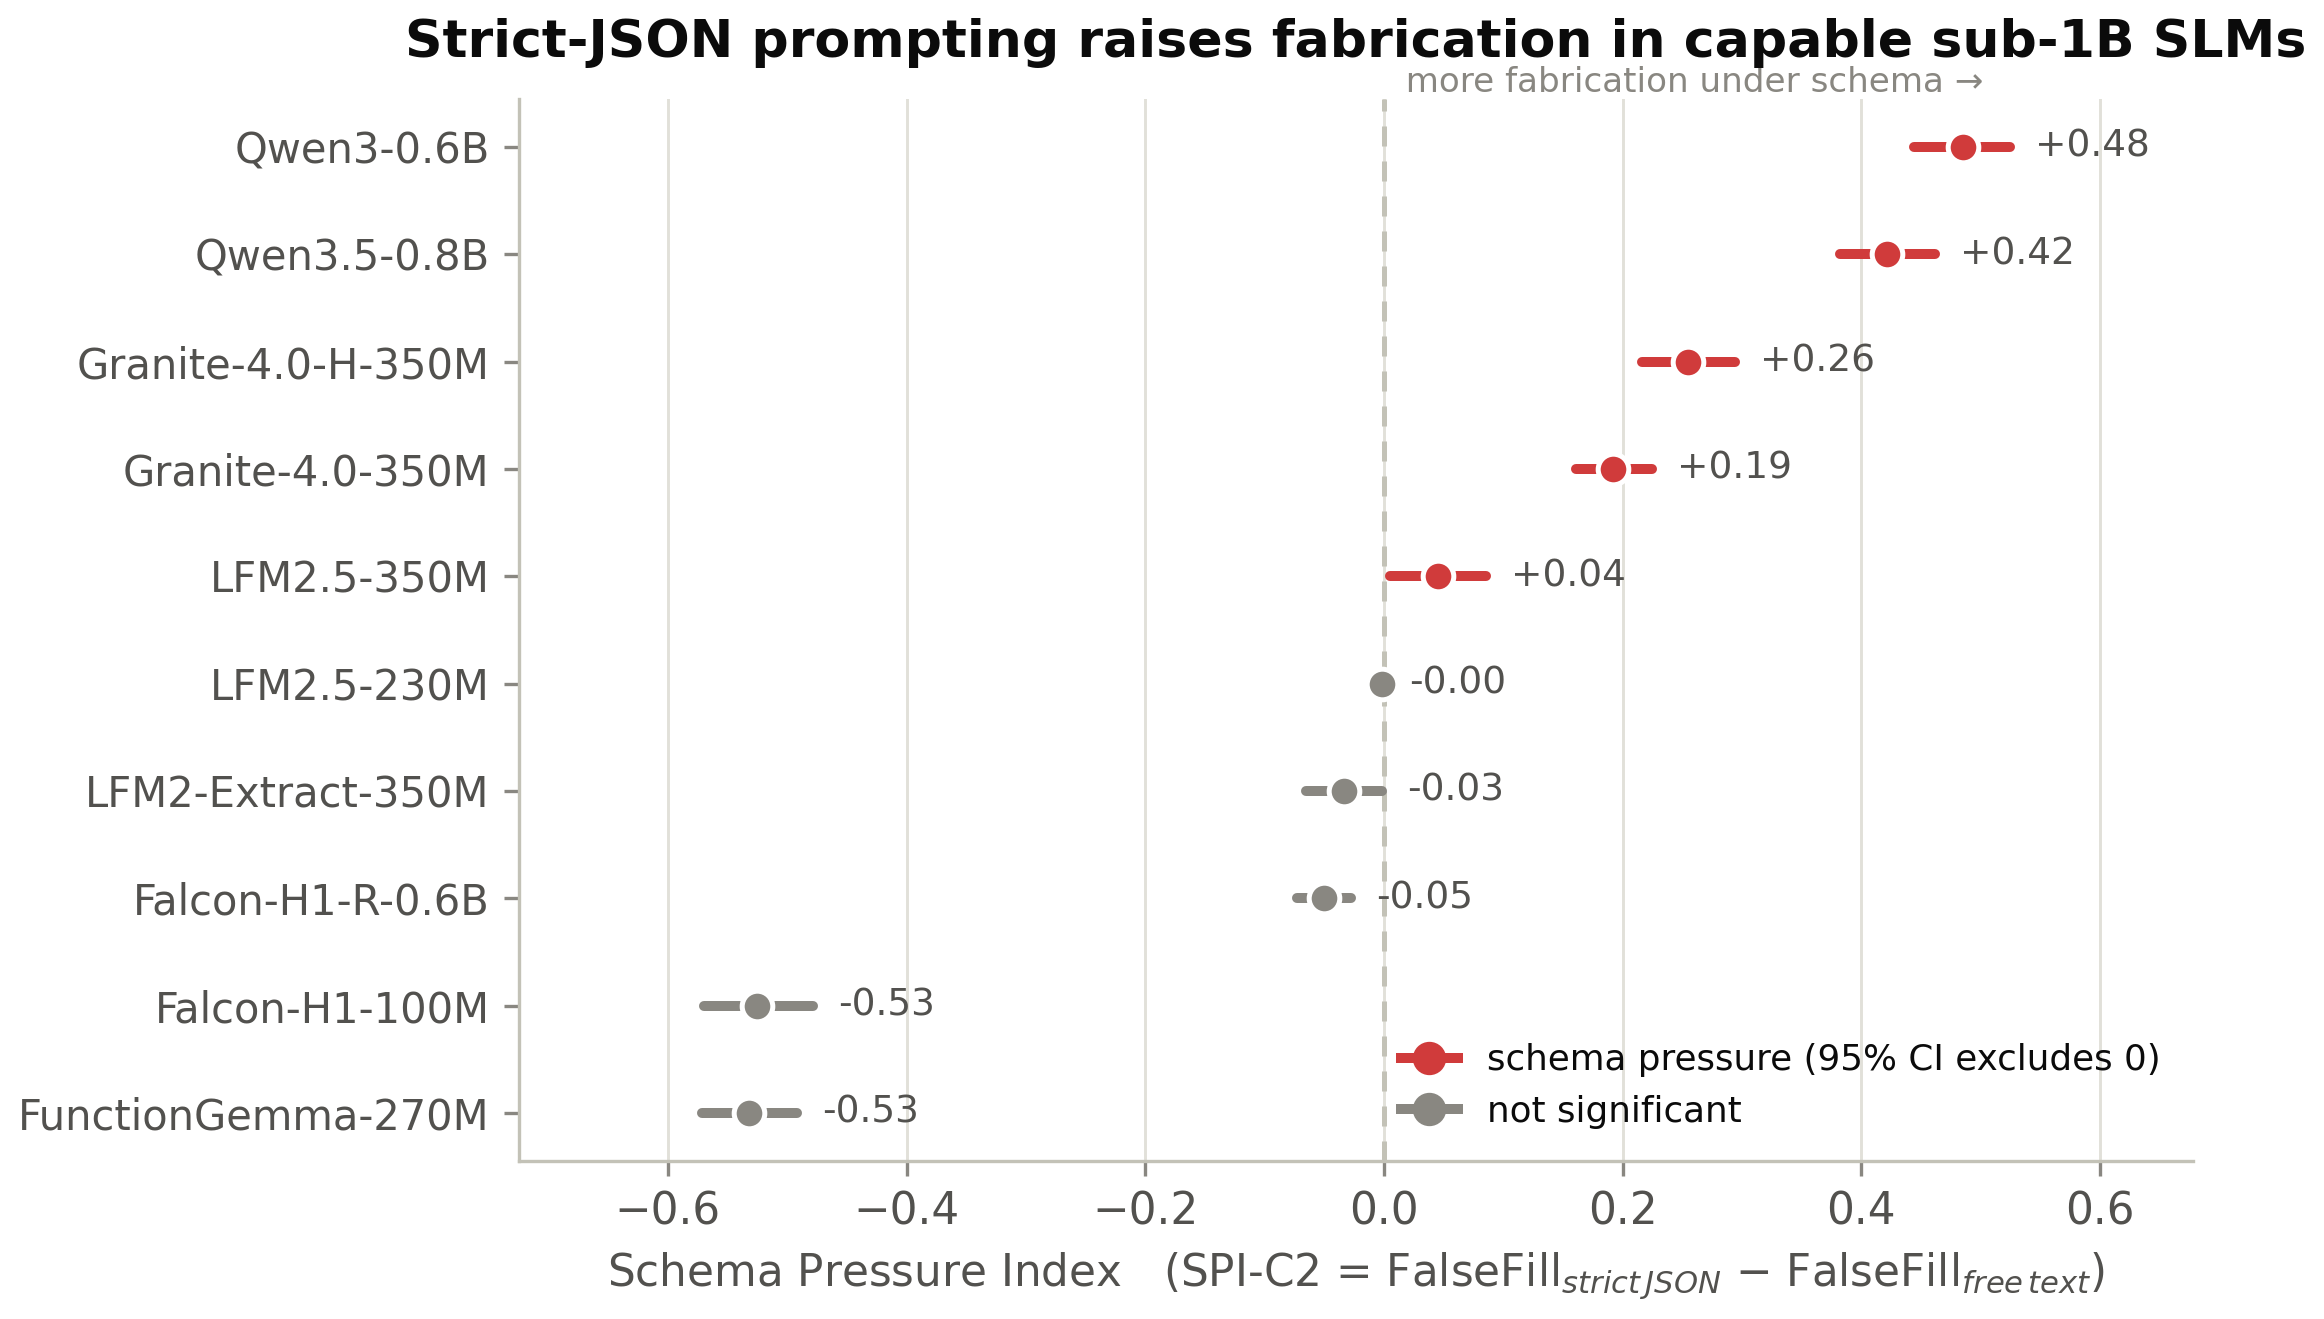
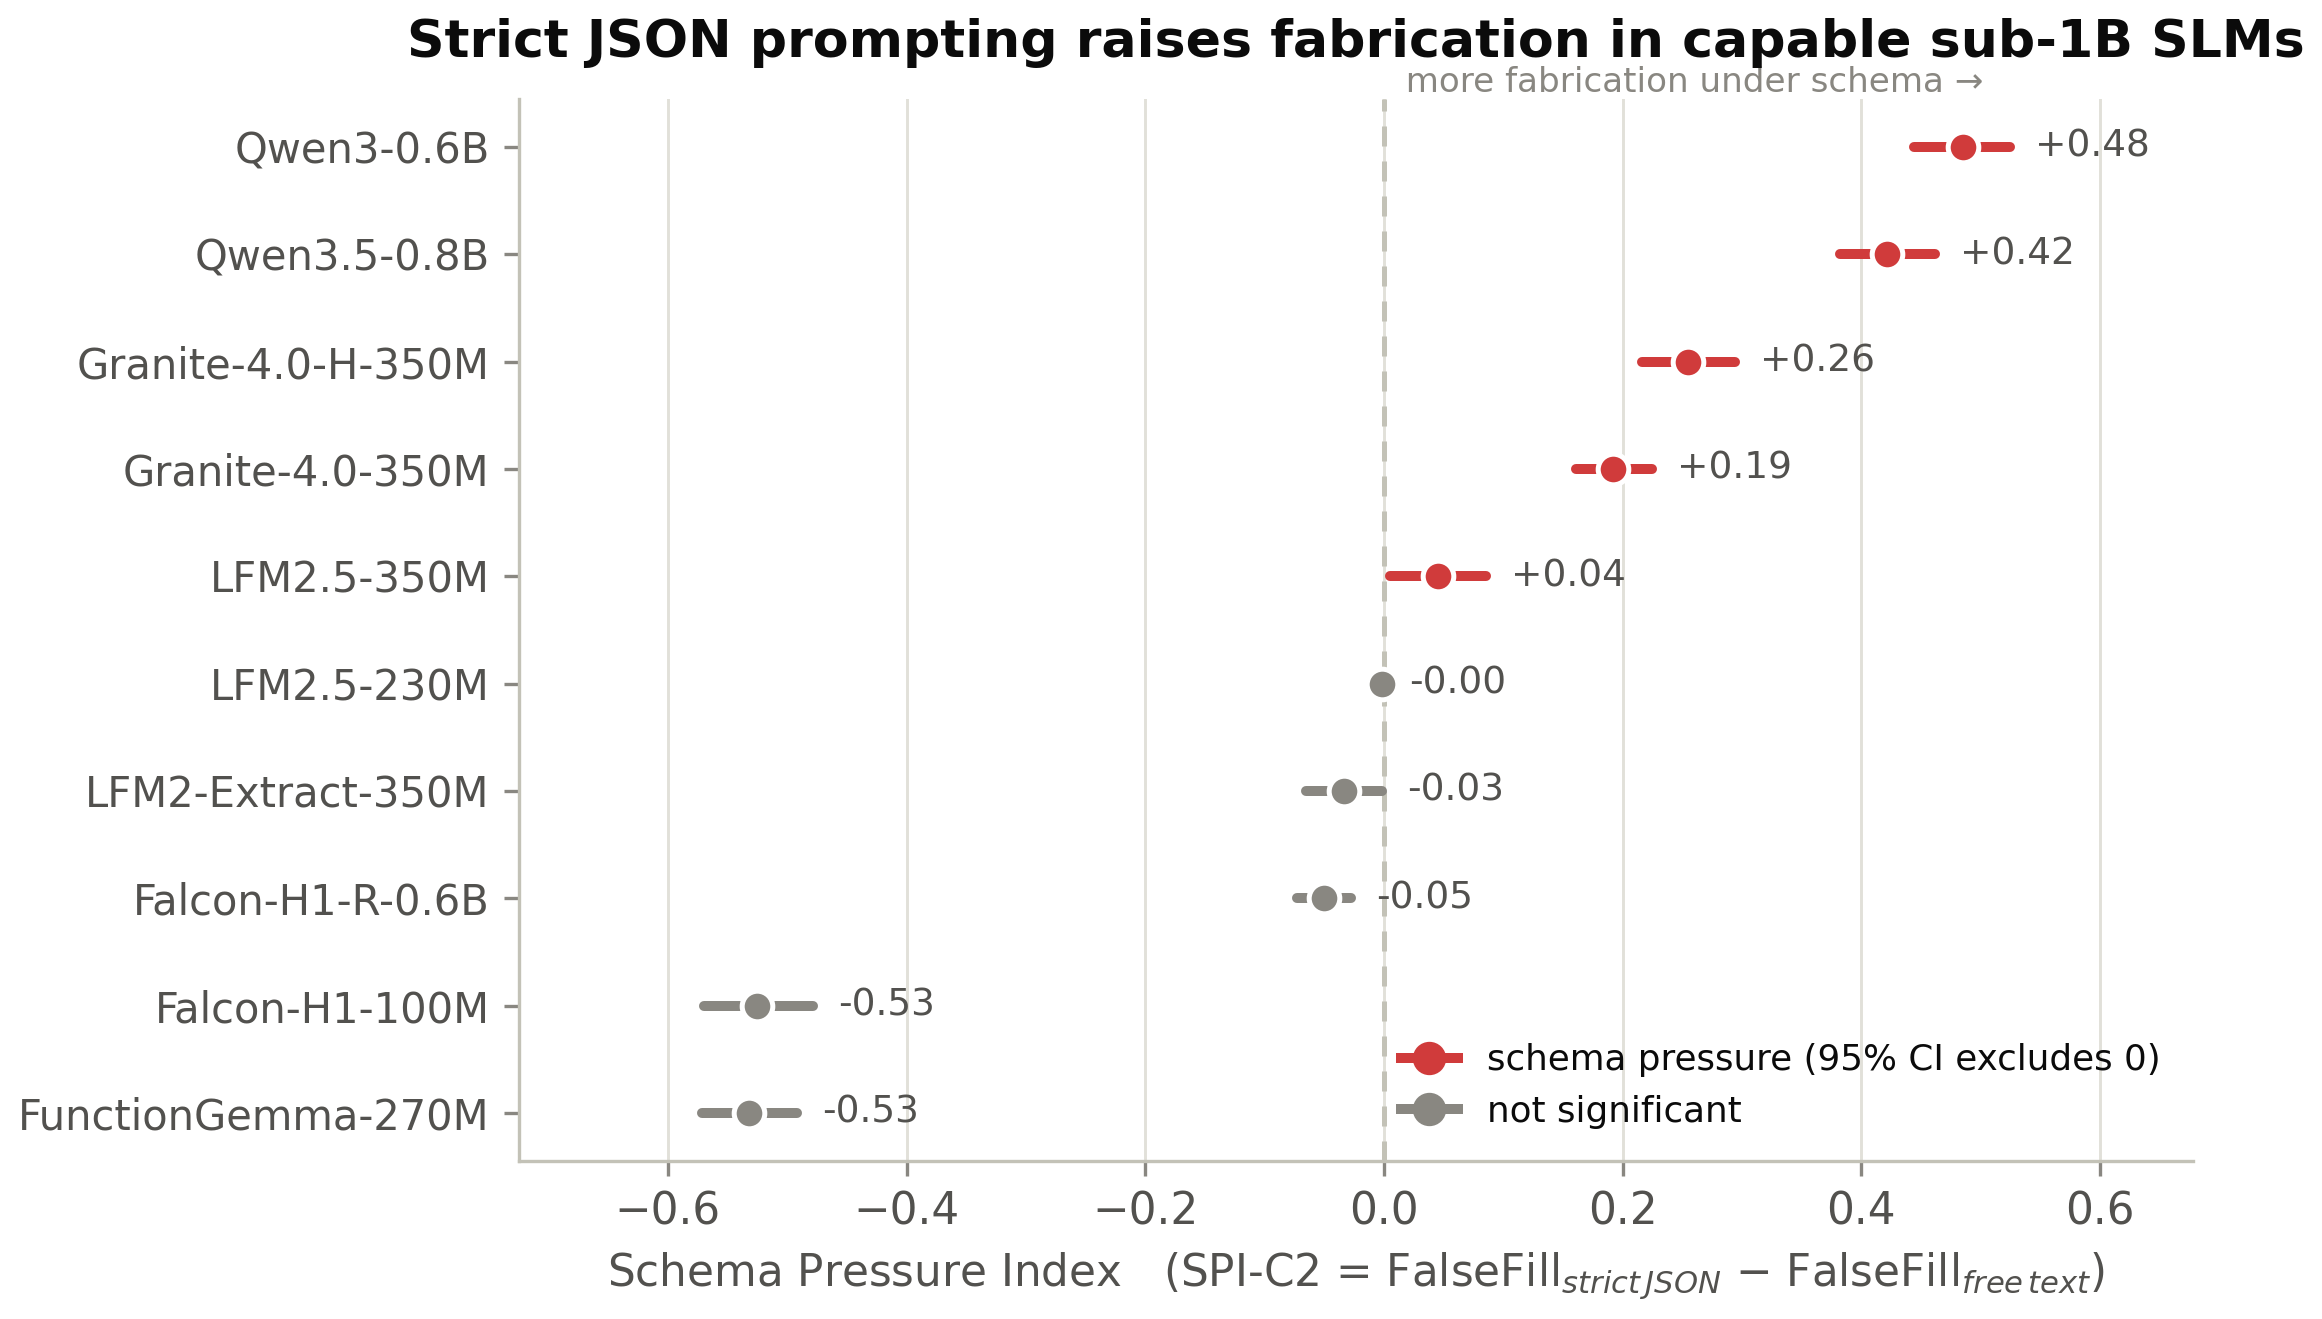
Copyedit: open ad-hoc hyphenated compounds in paper and figures
Open stylistic compound modifiers (false fill, structured output, field level,
free text, strict/loose JSON, constrained decoding, etc.) while keeping required
hyphens: model names, sub-1B, prefixes, and genuine compounds (few-shot, text-only,
gold-null). Figures regenerated to match; paper recompiles clean (13 pp).

diff --git a/paper/main.tex b/paper/main.tex
@@ -39,33 +39,33 @@
 \maketitle
 
 \begin{abstract}
-Structured-output systems often treat parseable JSON as a proxy for reliability. We test a narrower failure mode in sub-billion-parameter small language models: a required schema slot may be filled even when the source text does not support the value, although the schema permits \cnull for every field. We introduce \sass, a 1,000-item synthetic benchmark for field-level abstention over five evidence regimes: supported, missing, ambiguous, contradictory, and distractor. Ten recent sub-1B checkpoints are evaluated under free-text, loose-JSON, strict-JSON, explicit-null, few-shot-null, and constrained-decoding conditions, together with quantized variants and a sampling replication. Strict JSON raises false-fill rates for five of the ten models, with Qwen3-0.6B increasing from 0.217 to 0.702 and Qwen3.5-0.8B from 0.287 to 0.708; the paired bootstrap intervals exclude zero, and the effect persists under stochastic decoding. The increase is not universal, because some models already false-fill in free text and others avoid false fills only by failing to emit valid JSON. Constrained decoding yields 1.00 parse and schema validity for every compatible model, yet false-fill rates remain as high as 0.730. Explicit null rules reduce the error more reliably than few-shot examples. Evaluation of structured-output models should therefore score both the object and the evidence behind each field.
+Structured output systems often treat parseable JSON as a proxy for reliability. We test a narrower failure mode in sub-billion parameter small language models: a required schema slot may be filled even when the source text does not support the value, although the schema permits \cnull for every field. We introduce \sass, a 1,000-item synthetic benchmark for field level abstention over five evidence regimes: supported, missing, ambiguous, contradictory, and distractor. Ten recent sub-1B checkpoints are evaluated under free text, loose JSON, strict JSON, explicit null, few-shot null, and constrained decoding conditions, together with quantized variants and a sampling replication. Strict JSON raises false fill rates for five of the ten models, with Qwen3-0.6B increasing from 0.217 to 0.702 and Qwen3.5-0.8B from 0.287 to 0.708; the paired bootstrap intervals exclude zero, and the effect persists under stochastic decoding. The increase is not universal, because some models already false fill in free text and others avoid false fills only by failing to emit valid JSON. Constrained decoding yields 1.00 parse and schema validity for every compatible model, yet false fill rates remain as high as 0.730. Explicit null rules reduce the error more reliably than few-shot examples. Evaluation of structured output models should therefore score both the object and the evidence behind each field.
 \keywords{sub-1B language models, structured output, JSON, hallucination, abstention, constrained decoding}
 \end{abstract}
 
 \section{Introduction}
 
-Small language models below one billion parameters are moving from benchmark curiosities into local components for extraction, routing, tool use, and on-device assistants. MobileLLM framed this size range as a practical target for device-side inference rather than only as a scaled-down version of cloud models~\cite{mobilellm2024}. Recent model releases make this shift concrete: LFM2.5 offers 230M and 350M instruction models for edge deployment and agentic tasks~\cite{liquidlfm25}, FunctionGemma-270M targets function calling~\cite{functiongemma}, and Qwen3 includes a 0.6B model in a larger multilingual family~\cite{qwen3tr}. These systems often sit inside software pipelines where the output is not read by a person first. A JSON object may be passed to a database, a controller, or a tool runner.
+Small language models below one billion parameters are moving from benchmark curiosities into local components for extraction, routing, tool use, and on-device assistants. MobileLLM framed this size range as a practical target for device side inference rather than only as a scaled-down version of cloud models~\cite{mobilellm2024}. Recent model releases make this shift concrete: LFM2.5 offers 230M and 350M instruction models for edge deployment and agentic tasks~\cite{liquidlfm25}, FunctionGemma-270M targets function calling~\cite{functiongemma}, and Qwen3 includes a 0.6B model in a larger multilingual family~\cite{qwen3tr}. These systems often sit inside software pipelines where the output is not read by a person first. A JSON object may be passed to a database, a controller, or a tool runner.
 
-The usual first test for such a pipeline is structural: does the output parse, and does it match the expected schema? That test is necessary, but it is not enough. A JSON object can contain every required key and still insert a value that is not stated in the source. This paper studies that field-level error. We call it \emph{schema pressure}: the tendency of a model to fill a required structured slot even though the evidence calls for abstention. The schema we use permits \cnull for every field, so a false fill is not required by the type system. It is a model behavior induced by the prompt, the schema, the decoding path, or their combination.
+The usual first test for such a pipeline is structural: does the output parse, and does it match the expected schema? That test is necessary, but it is not enough. A JSON object can contain every required key and still insert a value that is not stated in the source. This paper studies that field level error. We call it \emph{schema pressure}: the tendency of a model to fill a required structured slot even though the evidence calls for abstention. The schema we use permits \cnull for every field, so a false fill is not required by the type system. It is a model behavior induced by the prompt, the schema, the decoding path, or their combination.
 
-The question matters for sub-1B models because their expected deployment setting amplifies silent errors. A large assistant that gives a doubtful answer in prose may invite user correction. A small local extractor that emits valid JSON can fail without visible warning. Prior work has measured constrained decoding, JSON conformance, and structured-output quality~\cite{jsonschemabench,structuredoutputbench,llmstructbench}. Abstention work has also shown that knowing when not to answer remains difficult for strong LLMs~\cite{abstentionbench}. The missing test is narrower: can a sub-1B model abstain at the level of an individual schema field when a schema still demands the key?
+The question matters for sub-1B models because their expected deployment setting amplifies silent errors. A large assistant that gives a doubtful answer in prose may invite user correction. A small local extractor that emits valid JSON can fail without visible warning. Prior work has measured constrained decoding, JSON conformance, and structured output quality~\cite{jsonschemabench,structuredoutputbench,llmstructbench}. Abstention work has also shown that knowing when not to answer remains difficult for strong LLMs~\cite{abstentionbench}. The missing test is narrower: can a sub-1B model abstain at the level of an individual schema field when a schema still demands the key?
 
 We make four contributions.
 \begin{enumerate}[leftmargin=*,nosep]
-    \item We define \emph{schema-induced field filling} as a structured-output failure where a model inserts an unsupported non-null value into a field whose gold value is \cnull.
+    \item We define \emph{schema-induced field filling} as a structured output failure where a model inserts an unsupported non-null value into a field whose gold value is \cnull.
     \item We introduce \sass, a 1,000-example benchmark with five evidence regimes: supported, missing, ambiguous, contradictory, and distractor.
     \item We evaluate ten recent sub-1B checkpoints under six prompting and decoding conditions, plus quantized variants for five compatible models and a sampling replication for the main effect.
     \item We report a mixed but useful result: strict JSON increases false filling for five of ten primary models, while constrained decoding fixes syntax but not field truth. Explicit null instructions reduce false fills more reliably than few-shot examples.
 \end{enumerate}
 
-The main empirical claim is deliberately limited. We do not find that every sub-1B model hallucinates more under a schema. Some models already false-fill heavily in free text; others avoid false fills by failing to produce parseable JSON. The supported claim is that, among models that can produce valid JSON, format compliance and field faithfulness are separable. Evaluation should measure both.
+The main empirical claim is deliberately limited. We do not find that every sub-1B model hallucinates more under a schema. Some models already false fill heavily in free text; others avoid false fills by failing to produce parseable JSON. The supported claim is that, among models that can produce valid JSON, format compliance and field faithfulness are separable. Evaluation should measure both.
 
 \section{Related Work}
 
 \subsection{Sub-1B Small Language Models}
 
-The sub-1B range has received renewed attention because it allows local inference under tighter memory and latency budgets. MobileLLM studies architectural choices for language models under one billion parameters and positions them for device-side use~\cite{mobilellm2024}. The models in our study follow this trend. LFM2.5-230M and LFM2.5-350M are described as text-only hybrid models with edge and tool-use use cases~\cite{liquidlfm25}. LFM2-350M-Extract is tuned for structured extraction outputs~\cite{liquidextract}. Qwen3-0.6B belongs to the Qwen3 dense model family~\cite{qwen3tr,qwen3hf}. Qwen3.5-0.8B is a newer multimodal checkpoint that we run through a text-only path~\cite{qwen35hf}. Falcon-H1 provides hybrid-head models with small variants and efficiency goals~\cite{falconh1}. IBM Granite 4.0 Nano provides 350M dense and hybrid checkpoints~\cite{granite350,graniteh350}. FunctionGemma-270M is aimed at function-calling use cases~\cite{functiongemma}.
+The sub-1B range has received renewed attention because it allows local inference under tighter memory and latency budgets. MobileLLM studies architectural choices for language models under one billion parameters and positions them for device side use~\cite{mobilellm2024}. The models in our study follow this trend. LFM2.5-230M and LFM2.5-350M are described as text-only hybrid models with edge and tool-use use cases~\cite{liquidlfm25}. LFM2-350M-Extract is tuned for structured extraction outputs~\cite{liquidextract}. Qwen3-0.6B belongs to the Qwen3 dense model family~\cite{qwen3tr,qwen3hf}. Qwen3.5-0.8B is a newer multimodal checkpoint that we run through a text-only path~\cite{qwen35hf}. Falcon-H1 provides hybrid-head models with small variants and efficiency goals~\cite{falconh1}. IBM Granite 4.0 Nano provides 350M dense and hybrid checkpoints~\cite{granite350,graniteh350}. FunctionGemma-270M is aimed at function-calling use cases~\cite{functiongemma}.
 
 Our goal is not to rank these models on general ability. We use them to test an error mode that is plausible in the places where small models are likely to be deployed: local extraction, schema filling, routing, and tool calls.
 
@@ -73,11 +73,11 @@ Our goal is not to rank these models on general ability. We use them to test an 
 
 Structured generation has been studied from two directions. One line asks whether decoding frameworks can enforce a schema. JSONSchemaBench evaluates constrained decoding over real JSON schemas and distinguishes compliance from generated-output quality~\cite{jsonschemabench}. A second line evaluates the values inside structured outputs. The Structured Output Benchmark reports near-perfect schema compliance but lower value accuracy across text, image, and audio contexts~\cite{structuredoutputbench}. LLMStructBench similarly evaluates JSON extraction from natural-language text and reports that prompting can improve structure while leaving semantic errors~\cite{llmstructbench}.
 
-\sass differs in two ways. First, it targets sub-1B models rather than frontier or multi-billion systems. Second, every example asks for the same flat schema, but the evidence status of one field is controlled. This lets us isolate unsupported field filling rather than merge it with nesting errors, missing keys, or document-level task variation.
+\sass differs in two ways. First, it targets sub-1B models rather than frontier or multi-billion systems. Second, every example asks for the same flat schema, but the evidence status of one field is controlled. This lets us isolate unsupported field filling rather than merge it with nesting errors, missing keys, or document level task variation.
 
 \subsection{Abstention and Hallucination}
 
-Abstention is often evaluated at the question level: should the model answer at all? AbstentionBench shows that modern LLMs still struggle with unanswerable, underspecified, false-premise, subjective, and outdated questions~\cite{abstentionbench}. Our setting is field-level rather than answer-level. A model may correctly extract four fields while needing to abstain on one. That case is common in forms and database records, where a missing age, date, or location should remain empty while other fields are filled.
+Abstention is often evaluated at the question level: should the model answer at all? AbstentionBench shows that modern LLMs still struggle with unanswerable, underspecified, false-premise, subjective, and outdated questions~\cite{abstentionbench}. Our setting is field level rather than answer level. A model may correctly extract four fields while needing to abstain on one. That case is common in forms and database records, where a missing age, date, or location should remain empty while other fields are filled.
 
 We use the term false fill instead of hallucination in the metric definition. A false fill is mechanically checkable: the gold field is \cnull and the model returns a non-null value. This avoids relying on judge-model labels and keeps the benchmark reproducible.
 
@@ -120,7 +120,7 @@ The correct output sets \code{target\_age} to \cnull while extracting the other 
 
 \subsection{Prompting and Decoding Conditions}
 
-Every model sees every example under five main prompt conditions and, when supported by the runtime, a constrained-decoding condition:
+Every model sees every example under five main prompt conditions and, when supported by the runtime, a constrained decoding condition:
 \begin{description}[leftmargin=*,nosep]
     \item[C0 free text:] line-based extraction with \code{UNKNOWN} for unsupported values.
     \item[C1 loose JSON:] requests a JSON object with the five keys.
@@ -130,7 +130,7 @@ Every model sees every example under five main prompt conditions and, when suppo
     \item[C5 constrained JSON:] uses the C3 instruction with schema-constrained decoding. The returned package records the framework as lm-format-enforcer. C5 was not run for Qwen3.5-0.8B because the text-only VLM path was not compatible with the constrainer.
 \end{description}
 
-The main run uses deterministic decoding: temperature 0, top-p 1, max-new-tokens 256, seed 42. A sampling replication uses temperature 0.2 and top-p 0.95 for three repetitions on C0/C3, plus an added C2 replication for the main-effect models.
+The main run uses deterministic decoding: temperature 0, top-p 1, max-new-tokens 256, seed 42. A sampling replication uses temperature 0.2 and top-p 0.95 for three repetitions on C0/C3, plus an added C2 replication for the main effect models.
 
 \subsection{Metrics}
 
@@ -142,7 +142,7 @@ For JSON conditions, \emph{JSON parse rate} is the fraction of outputs that pars
 \mathrm{NullRecall} &= \frac{\#\{(i,f): G_{i,f}=\cnull,\; P_{i,f}=\cnull\}}{\#\{(i,f): G_{i,f}=\cnull\}}, \\
 \mathrm{SPI}_{Ck} &= \mathrm{FFR}(Ck)-\mathrm{FFR}(C0).
 \end{align}
-Positive \spi means the structured condition increases unsupported field filling relative to free text. We report paired cluster-bootstrap 95\% confidence intervals over examples with 10,000 bootstrap samples. The benchmark has 600 gold-null fields per model-condition: 200 missing, 200 ambiguous, and 200 contradictory.
+Positive \spi means the structured condition increases unsupported field filling relative to free text. We report paired cluster bootstrap 95\% confidence intervals over examples with 10,000 bootstrap samples. The benchmark has 600 gold-null fields per model-condition: 200 missing, 200 ambiguous, and 200 contradictory.
 
 \section{Experimental Setup}
 
@@ -161,7 +161,7 @@ Model & Params & Role in the study \\
 \midrule
 LFM2.5-230M & 0.23B & recent edge-oriented instruction model \\
 LFM2.5-350M & 0.35B & larger LFM2.5 instruction model \\
-LFM2-350M-Extract & 0.35B & extraction-tuned structured-output model \\
+LFM2-350M-Extract & 0.35B & extraction-tuned structured output model \\
 Qwen3.5-0.8B & 0.80B & newer Qwen VLM checkpoint, run text-only \\
 Qwen3-0.6B & 0.60B & pure-text Qwen backup and control \\
 Falcon-H1-Tiny-100M-Instruct & 0.10B & very small hybrid-head instruction model \\
@@ -177,7 +177,7 @@ Quantization add-ons were run for five compatible model families: LFM2.5-230M, L
 
 \subsection{Scoring Baselines}
 
-One scorer detail affects LFM2-350M-Extract. In C0, this extraction-tuned model emitted JSON despite the free-text instruction. A line-only C0 parser therefore marked its C0 output as mostly null and created an artificial positive \spi. The paper uses the JSON-aware C0 fallback from \code{results/c0robust/}, as recommended in the returned results package. Under that fair baseline, LFM2-350M-Extract is a chronic false filler rather than a schema-pressure case: its FFR is 0.765 in C0 and 0.732 in C2. The original conservative scores are kept in the artifact for audit, but all headline results use the JSON-aware C0 fallback.
+One scorer detail affects LFM2-350M-Extract. In C0, this extraction-tuned model emitted JSON despite the free text instruction. A line-only C0 parser therefore marked its C0 output as mostly null and created an artificial positive \spi. The paper uses the JSON-aware C0 fallback from \code{results/c0robust/}, as recommended in the returned results package. Under that fair baseline, LFM2-350M-Extract is a chronic false filler rather than a schema pressure case: its FFR is 0.765 in C0 and 0.732 in C2. The original conservative scores are kept in the artifact for audit, but all headline results use the JSON-aware C0 fallback.
 
 \section{Results}
 
@@ -187,7 +187,7 @@ Table~\ref{tab:spi} reports the main effect. Five primary models have positive \
 
 \begin{table}[t]
 \centering
-\caption{Schema Pressure Index under strict JSON and explicit-null prompting. Positive \spi-C2 means strict JSON increased false filling relative to free text. CIs are paired bootstrap 95\% intervals. A dagger marks positive intervals that exclude zero.}
+\caption{Schema Pressure Index under strict JSON and explicit null prompting. Positive \spi-C2 means strict JSON increased false filling relative to free text. CIs are paired bootstrap 95\% intervals. A dagger marks positive intervals that exclude zero.}
 \label{tab:spi}
 \small
 \resizebox{\textwidth}{!}{%
@@ -210,14 +210,14 @@ FunctionGemma-270M & 0.532 \ra 0.000 & -0.532 [-0.571, -0.491] & -0.532 [-0.572,
 }
 \end{table}
 
-The negative rows should not be read as evidence that schemas always help. FunctionGemma-270M and Falcon-H1-R-0.6B have low C2 false-fill rates because they rarely emit parseable or schema-valid JSON in those conditions. For example, FunctionGemma has a C2 parse rate of 0.000, and Falcon-H1-R-0.6B has a C2 parse rate of 0.105. In those cases the model fails structurally before it can be scored as filling unsupported fields. LFM2.5-230M and LFM2-350M-Extract are different: they already false-fill at high rates in C0, leaving little room for C2 to increase the error.
+The negative rows should not be read as evidence that schemas always help. FunctionGemma-270M and Falcon-H1-R-0.6B have low C2 false fill rates because they rarely emit parseable or schema-valid JSON in those conditions. For example, FunctionGemma has a C2 parse rate of 0.000, and Falcon-H1-R-0.6B has a C2 parse rate of 0.105. In those cases the model fails structurally before it can be scored as filling unsupported fields. LFM2.5-230M and LFM2-350M-Extract are different: they already false fill at high rates in C0, leaving little room for C2 to increase the error.
 
 Figure~\ref{fig:spi} shows the same result as a forest plot.
 
 \begin{figure}[t]
 \centering
 \includegraphics[width=0.92\textwidth]{figures/fig1_schema_pressure_index.pdf}
-\caption{\spi-C2 with 95\% bootstrap confidence intervals. Positive values mean strict JSON increased false filling compared with free-text extraction.}
+\caption{\spi-C2 with 95\% bootstrap confidence intervals. Positive values mean strict JSON increased false filling compared with free text extraction.}
 \label{fig:spi}
 \end{figure}
 
@@ -225,11 +225,11 @@ Figure~\ref{fig:spi} shows the same result as a forest plot.
 
 C3 adds a direct policy: use \cnull when a value is missing, ambiguous, or contradictory. This reduces the main effect for most models. Qwen3-0.6B moves from C2 FFR 0.702 to C3 FFR 0.072. Granite-4.0-350M moves from 0.812 to 0.478, and Granite-4.0-H-350M moves from 0.645 to 0.382. Qwen3.5-0.8B remains a partial failure case: its C3 FFR is 0.440, still above its C0 FFR of 0.287, yielding a positive \spi-C3 of +0.153.
 
-C4, the few-shot-null condition, is less reliable. It improves over C3 for LFM2.5-230M, LFM2.5-350M, LFM2-350M-Extract, Qwen3.5-0.8B, and Falcon-H1-100M. It is worse than C3 for Qwen3-0.6B, both Granite models, FunctionGemma-270M, and the Falcon-H1 reasoning model. The strongest example is Qwen3-0.6B: FFR rises from 0.072 in C3 to 0.533 in C4. This refutes the planned hypothesis that few-shot null examples would consistently beat an explicit rule.
+C4, the few-shot null condition, is less reliable. It improves over C3 for LFM2.5-230M, LFM2.5-350M, LFM2-350M-Extract, Qwen3.5-0.8B, and Falcon-H1-100M. It is worse than C3 for Qwen3-0.6B, both Granite models, FunctionGemma-270M, and the Falcon-H1 reasoning model. The strongest example is Qwen3-0.6B: FFR rises from 0.072 in C3 to 0.533 in C4. This refutes the planned hypothesis that few-shot null examples would consistently beat an explicit rule.
 
 \subsection{Constrained Decoding Fixes the Object, Not the Values}
 
-C5 tests whether schema-constrained decoding closes the gap between structure and truth. It does not. As Table~\ref{tab:c5} shows, all compatible models reach 1.00 JSON parse rate and 1.00 schema validity. False-fill rates remain high for several models: LFM2.5-350M at 0.730, FunctionGemma-270M at 0.718, LFM2.5-230M at 0.717, and LFM2-350M-Extract at 0.692. The result is clearest in this condition because parsing and key/type validity are held constant.
+C5 tests whether schema-constrained decoding closes the gap between structure and truth. It does not. As Table~\ref{tab:c5} shows, all compatible models reach 1.00 JSON parse rate and 1.00 schema validity. False fill rates remain high for several models: LFM2.5-350M at 0.730, FunctionGemma-270M at 0.718, LFM2.5-230M at 0.717, and LFM2-350M-Extract at 0.692. The result is clearest in this condition because parsing and key/type validity are held constant.
 
 \begin{table}[t]
 \centering
@@ -258,15 +258,15 @@ Figure~\ref{fig:c5} plots the C5 format-truth gap. Since schema validity is fixe
 \begin{figure}[t]
 \centering
 \includegraphics[width=0.85\textwidth]{figures/fig3_c5_format_truth_gap.pdf}
-\caption{C5 format-truth gap. Constrained decoding gives parseable, schema-valid JSON for every compatible model, but field-level correctness varies widely.}
+\caption{C5 format-truth gap. Constrained decoding gives parseable, schema-valid JSON for every compatible model, but field level correctness varies widely.}
 \label{fig:c5}
 \end{figure}
 
-\subsection{Challenge-Type Errors}
+\subsection{Challenge Type Errors}
 
-Averaged across the ten primary models, contradictory and ambiguous fields are hardest under C2: false-fill rates are 0.740 and 0.720, respectively. Missing fields are easier, with C2 FFR 0.185. C3 improves all three null-requiring categories, reducing missing-field FFR to 0.072, ambiguous-field FFR to 0.476, and contradictory-field FFR to 0.425. Distractor copying is uncommon in this benchmark: mean distractor error is 0.002 in C2 and 0.003 in C3.
+Averaged across the ten primary models, contradictory and ambiguous fields are hardest under C2: false fill rates are 0.740 and 0.720, respectively. Missing fields are easier, with C2 FFR 0.185. C3 improves all three null-requiring categories, reducing missing-field FFR to 0.072, ambiguous-field FFR to 0.476, and contradictory-field FFR to 0.425. Distractor copying is uncommon in this benchmark: mean distractor error is 0.002 in C2 and 0.003 in C3.
 
-These averages hide model-specific behavior. Qwen3-0.6B has a low C3 false-fill rate but loses field faithfulness in C5. LFM2-350M-Extract remains good at supported fields while filling null-required fields frequently. FunctionGemma has low C2 false filling only because strict JSON fails to parse.
+These averages hide model-specific behavior. Qwen3-0.6B has a low C3 false fill rate but loses field faithfulness in C5. LFM2-350M-Extract remains good at supported fields while filling null-required fields frequently. FunctionGemma has low C2 false filling only because strict JSON fails to parse.
 
 \subsection{Sampling Replication and Quantization}
 
@@ -283,11 +283,11 @@ Quantization does not change the qualitative result for Qwen3-0.6B: \spi-C2 is +
 
 \subsection{Qualitative Examples}
 
-Table~\ref{tab:qual} gives three representative false fills. The first two are classic schema-pressure errors: the model supplies a plausible event name even though the title is explicitly unspecified. The third is a type and field error: a date is copied into an age slot. All three outputs are parseable JSON; two pass schema validation.
+Table~\ref{tab:qual} gives three representative false fills. The first two are classic schema pressure errors: the model supplies a plausible event name even though the title is explicitly unspecified. The third is a type and field error: a date is copied into an age slot. All three outputs are parseable JSON; two pass schema validation.
 
 \begin{table}[t]
 \centering
-\caption{Representative false-fill errors. Gold \cnull means the field should have been left empty.}
+\caption{Representative false fill errors. Gold \cnull means the field should have been left empty.}
 \label{tab:qual}
 \small
 \begin{tabularx}{\textwidth}{@{}l l X l@{}}
@@ -303,17 +303,17 @@ Granite-4.0-350M, C2 & age & age was not stated & ``2026-02-08'' \\
 
 \section{Discussion}
 
-The experiments support a bounded version of the schema-pressure hypothesis. Strict JSON prompting can increase unsupported field completion, but the effect depends on the base model. The models that are both capable of producing strict JSON and not already at a free-text false-fill ceiling show the clearest increases. Models that fail structurally can appear safe on false-fill metrics unless parse and schema-validity rates are reported beside them.
+The experiments support a bounded version of the schema pressure hypothesis. Strict JSON prompting can increase unsupported field completion, but the effect depends on the base model. The models that are both capable of producing strict JSON and not already at a free text false fill ceiling show the clearest increases. Models that fail structurally can appear safe on false fill metrics unless parse and schema validity rates are reported beside them.
 
-This leads to a practical rule for evaluating sub-1B structured-output systems: never report JSON validity alone. C5 makes this point directly. A constrained decoder can force every key and every type while leaving unsupported-value behavior unchanged or only partly improved. The field value must still be evaluated against evidence.
+This leads to a practical rule for evaluating sub-1B structured output systems: never report JSON validity alone. C5 makes this point directly. A constrained decoder can force every key and every type while leaving unsupported-value behavior unchanged or only partly improved. The field value must still be evaluated against evidence.
 
 The mitigation result is also useful. The explicit null rule is simple, cheap, and often effective. Few-shot examples are not a drop-in replacement. In this experiment, few-shot null examples helped some LFM models and Qwen3.5, but hurt Qwen3-0.6B and the Granite models. A likely reason is that few-shot prompts change more than the abstention policy: they lengthen the prompt, add a local style, and may shift the model toward copying example structure in ways that interact with its instruction tuning. The experiment does not prove that few-shot prompting is bad; it shows that it should be validated per model rather than assumed safe.
 
 \section{Limitations}
 
-The benchmark is synthetic and flat. It controls evidence status well, but it does not cover long documents, nested schemas, noisy OCR, multilingual contexts, or domain-specific forms. The next version should add nested objects and real documents while preserving field-level evidence labels.
+The benchmark is synthetic and flat. It controls evidence status well, but it does not cover long documents, nested schemas, noisy OCR, multilingual contexts, or domain-specific forms. The next version should add nested objects and real documents while preserving field level evidence labels.
 
-The C5 constrained-decoding result is framework-specific. The returned package records lm-format-enforcer for C5. Other grammar engines may differ in speed, supported schema features, or token-level behavior. The core point remains narrower: any decoding engine that only constrains syntax cannot by itself verify whether a value is supported by the source text.
+The C5 constrained decoding result is framework-specific. The returned package records lm-format-enforcer for C5. Other grammar engines may differ in speed, supported schema features, or token-level behavior. The core point remains narrower: any decoding engine that only constrains syntax cannot by itself verify whether a value is supported by the source text.
 
 The Qwen3.5-0.8B row requires care. The model is multimodal and was run through a text-only path. C5 was not available for that stack. We therefore use Qwen3-0.6B as a pure-text Qwen control rather than treating Qwen3.5 as the only Qwen result.
 
@@ -323,11 +323,11 @@ Finally, exact matching is conservative. A plausible guess is still wrong unless
 
 \section{Conclusion}
 
-Sub-1B models can produce outputs that are easy for software to consume. That does not make the values safe to consume. In \sass, strict JSON increases unsupported field filling for five of ten recent sub-1B models, and constrained decoding gives perfect parse and schema validity while leaving false-fill rates high for several models. Explicit null instructions reduce the error more consistently than few-shot null examples. The main lesson is simple: for structured-output SLMs, evaluation must score both the object and the evidence behind each field.
+Sub-1B models can produce outputs that are easy for software to consume. That does not make the values safe to consume. In \sass, strict JSON increases unsupported field filling for five of ten recent sub-1B models, and constrained decoding gives perfect parse and schema validity while leaving false fill rates high for several models. Explicit null instructions reduce the error more consistently than few-shot null examples. The main lesson is simple: for structured output SLMs, evaluation must score both the object and the evidence behind each field.
 
 \section*{Artifact and Reproducibility Notes}
 
-The submission package used for this paper contains the benchmark JSONL file, prompt templates, raw outputs, field-level metrics, summary CSV files, confidence intervals, figures, and scoring scripts. The main paper uses the JSON-aware C0 fallback in \code{results/c0robust/}. The source package includes the three summary CSV files used for the main tables and confidence intervals.
+The submission package used for this paper contains the benchmark JSONL file, prompt templates, raw outputs, field level metrics, summary CSV files, confidence intervals, figures, and scoring scripts. The main paper uses the JSON-aware C0 fallback in \code{results/c0robust/}. The source package includes the three summary CSV files used for the main tables and confidence intervals.
 
 \begin{thebibliography}{99}
 

diff --git a/harness/make_figures.py b/harness/make_figures.py
@@ -76,7 +76,7 @@ for i, m in enumerate(rows):
 ax.axvline(0, color=BASE, lw=1.2, ls=(0, (4, 3)), zorder=1)
 ax.set_yticks(range(len(rows))); ax.set_yticklabels([SHORT[m] for m in rows], fontsize=10)
 ax.set_xlabel("Schema Pressure Index   (SPI-C2 = FalseFill$_{strict\\,JSON}$ − FalseFill$_{free\\,text}$)")
-ax.set_title("Strict-JSON prompting raises fabrication in capable sub-1B SLMs", pad=10)
+ax.set_title("Strict JSON prompting raises fabrication in capable sub-1B SLMs", pad=10)
 ax.margins(x=0.14); despine(ax)
 ax.set_axisbelow(True); ax.grid(axis="x", color=GRID, lw=0.7)
 ax.legend(handles=[Line2D([0],[0],marker="o",color=RED,lw=2.4,ms=7,label="schema pressure (95% CI excludes 0)"),
@@ -88,7 +88,7 @@ save(fig, "fig1_schema_pressure_index")
 # ======================================================================= FIG 2
 # Job: magnitude across an ordered grid (model x condition) -> sequential heatmap.
 conds = ["C0", "C2", "C3", "C4", "C5"]
-clabel = ["C0\nfree-text", "C2\nstrict", "C3\n+null", "C4\nfew-shot", "C5\nconstrained"]
+clabel = ["C0\nfree text", "C2\nstrict", "C3\n+null", "C4\nfew-shot", "C5\nconstrained"]
 order = sorted(base, key=lambda m: -num(SUM.get((m, "C2"), {}).get("false_fill_rate", "nan")))
 M = np.array([[num(SUM.get((m, c), {}).get("false_fill_rate", "nan")) for c in conds] for m in order])
 fig, ax = plt.subplots(figsize=(6.6, 5.0))
@@ -108,7 +108,7 @@ ax.grid(which="minor", color=SURF, lw=2.2); ax.tick_params(which="minor", length
 for s in ax.spines.values(): s.set_visible(False)
 cb = fig.colorbar(im, ax=ax, fraction=0.046, pad=0.03); cb.set_label("False Fill Rate", fontsize=9.5)
 cb.outline.set_visible(False); cb.ax.tick_params(color=MUTED, labelsize=8.5)
-ax.set_title("False-fill rate across prompting conditions", pad=10)
+ax.set_title("False fill rate across prompting conditions", pad=10)
 save(fig, "fig2_ffr_by_condition_heatmap")
 
 # ======================================================================= FIG 3
@@ -120,7 +120,7 @@ ff = [num(SUM[(m, "C5")]["false_fill_rate"]) for m in c5m]
 y = np.arange(len(c5m)); h = 0.38
 fig, ax = plt.subplots(figsize=(7.0, 4.4))
 ax.barh(y+h/2, sv, height=h, color=BLUE, label="schema validity (structure)", zorder=3)
-ax.barh(y-h/2, ff, height=h, color=RED, label="false-fill rate (fabrication)", zorder=3)
+ax.barh(y-h/2, ff, height=h, color=RED, label="false fill rate (fabrication)", zorder=3)
 for i, (a, b) in enumerate(zip(sv, ff)):
     ax.text(a+0.012, i+h/2, f"{a:.2f}", va="center", fontsize=8.3, color=INK2)
     ax.text(b+0.012, i-h/2, f"{b:.2f}", va="center", fontsize=8.3, color=INK2)